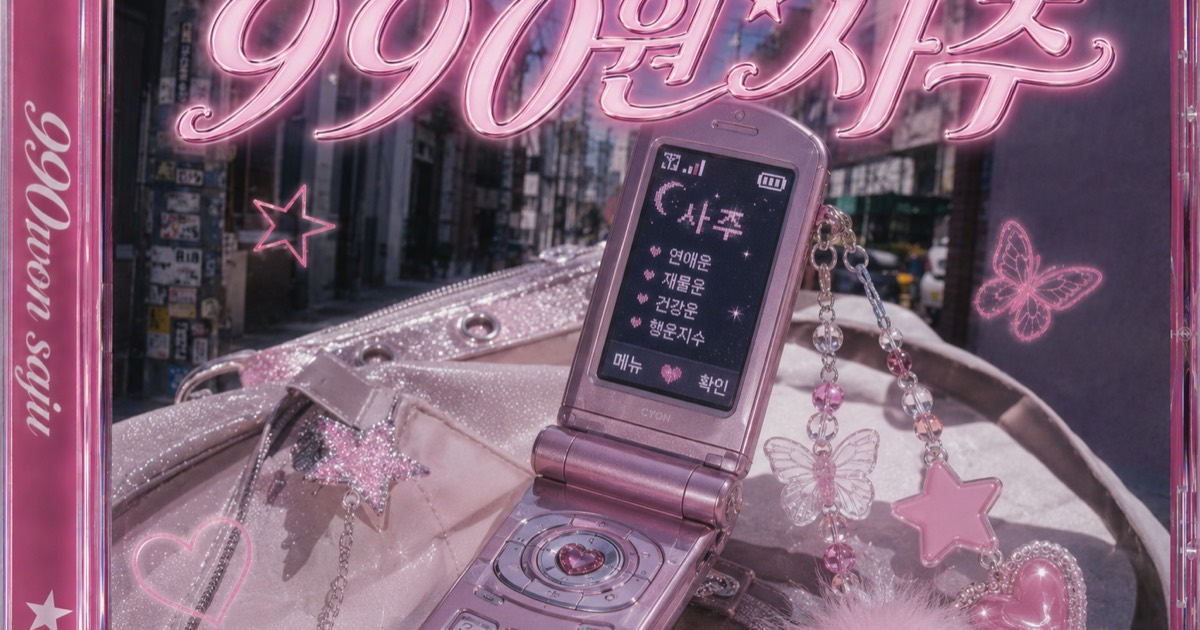
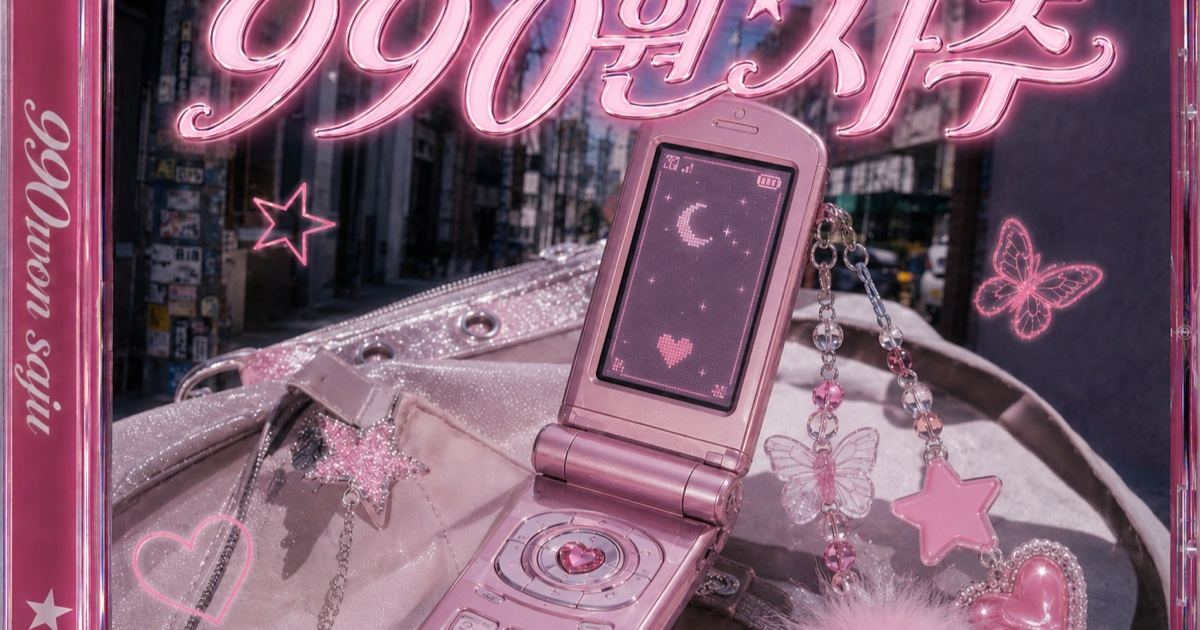
메인 배너 2장 교체 · PNG → JPEG
새 키비주얼로 두 장 모두 교체하고, 배포 용량 문제를 함께 정리한다.

output: "export" + images: { unoptimized: true } 라 next/image 가
최적화하지 않고 원본이 그대로 나간다. PNG 원본은 각 2.5MB 라
첫 배너가 눈에 띄게 늦게 떴다. JPEG q90 으로 넣어 1/4로 줄였고,
표시 폭(최대 420px)에서는 차이가 보이지 않는다.

  hero.jpg   1548x1016  572KB  (PNG 2.5MB)
  hero-2.jpg 1557x1010  678KB  (PNG 2.6MB)

첫 배너가 바뀌었으므로 공유 썸네일 og.jpg 도 새 배너 상단 크롭으로
다시 만들었다.

README 히어로 절은 실제와 어긋나 있어 함께 고쳤다 — src 단일 prop 이
아니라 slides 이고, unoptimized 라 next/image 가 webp 로 바꿔 주지
않는다. og.jpg 재생성 명령도 남겨 둔다.

Claude-Session: https://claude.ai/code/session_014imV672EMDn56FrbEhVxWR

diff --git a/src/app/page.tsx b/src/app/page.tsx
@@ -17,14 +17,14 @@ export default function Home() {
       <Header />
 
       <main className="flex-1">
-        {/* 첫 배너 원본 1549×1015 — 그 비율을 기준으로 잡는다.
-            두 번째 배너(1558×1010)는 object-cover라 좌우가 1%쯤 잘린다.
+        {/* 첫 배너 원본 1548×1016 — 그 비율을 기준으로 잡는다.
+            두 번째 배너(1557×1010)는 object-cover라 좌우가 1%쯤 잘린다.
             제목이 상단에 있어 세로가 잘리는 쪽을 피한 선택이다.
             slides에 항목을 추가하면 4초 간격으로 자동 순환한다. */}
         <FortuneHero
-          ratio="1549/1015"
+          ratio="1548/1016"
           slides={[
-            { src: "/hero.png", alt: "990원 사주" },
+            { src: "/hero.jpg", alt: "990원 사주" },
             { src: "/hero-2.jpg", alt: "궁합운세 Destiny Match" },
           ]}
         />
